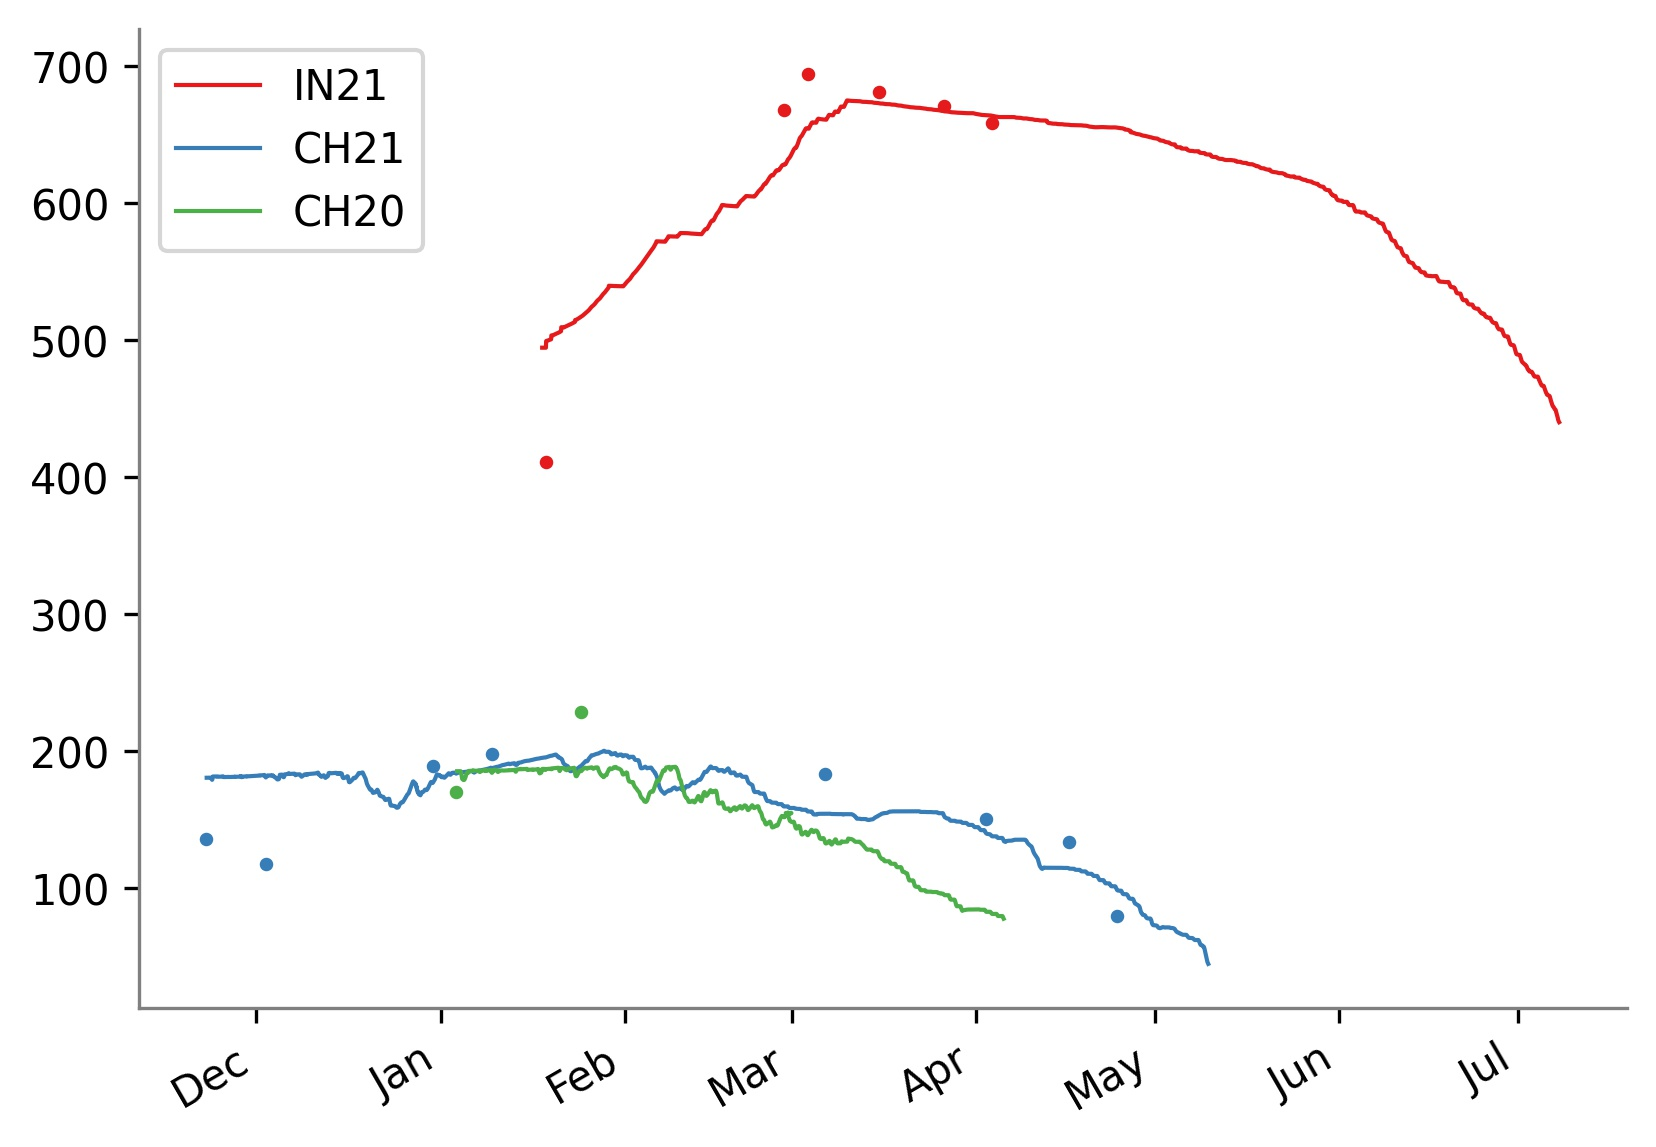
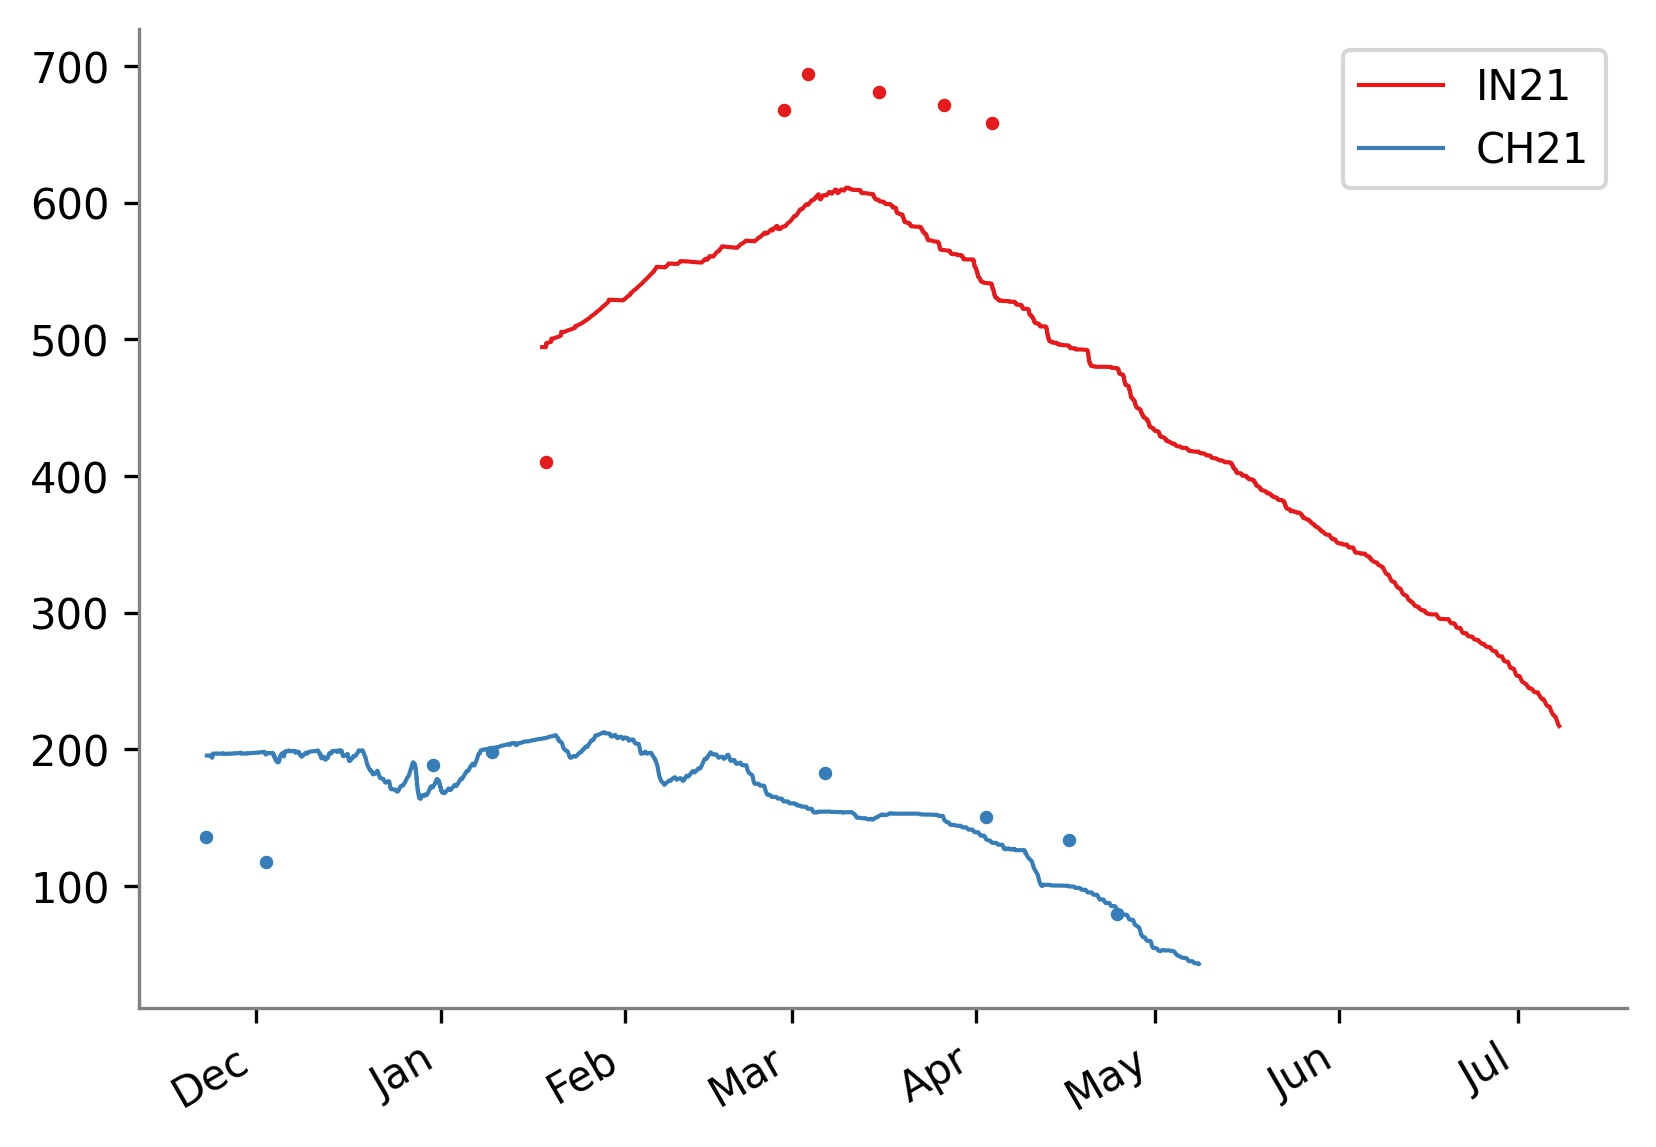
uq full prepare

diff --git a/src/utils/area_plot.py b/src/utils/area_plot.py
@@ -32,13 +32,11 @@ if __name__ == "__main__":
         logger=logger,
     )
 
-    locations = ['gangles21', 'guttannen21', 'guttannen20']
+    # locations = ['gangles21', 'guttannen21', 'guttannen20']
+    locations = ['gangles21', 'guttannen21']
 
     fig, ax = plt.subplots()
     custom_colors = sns.color_palette("Set1", len(locations))
-    custom_lines = [Line2D([0], [0], color=custom_colors[0], lw=4),
-                    Line2D([0], [0], color=custom_colors[1], lw=4),
-                    Line2D([0], [0], color=custom_colors[2], lw=4)]
 
     for i,location in enumerate(locations):
         SITE, FOLDER = config(location)
@@ -57,20 +55,20 @@ if __name__ == "__main__":
             parse_dates=["When"],
         )
 
-        a_pred = []
-        a_true = df_c.Area.values
-        for date in df_c.When.values:
-            if icestupa.df[icestupa.df.When == date].shape[0]:
-                a_pred.append(icestupa.df.loc[icestupa.df.When == date, "SA"].values[0])
-            else:
-                a_pred.append(np.nan)
-
-        res = list(map(truediv, a_true, a_pred))
-# printing original lists 
-        print ("The original list 1 is : " + str(a_true))
-        print ("The original list 2 is : " + str(a_pred))
-# printing result
-        print ("The division list is : " + str(res))
+#         a_pred = []
+#         a_true = df_c.Area.values
+#         for date in df_c.When.values:
+#             if icestupa.df[icestupa.df.When == date].shape[0]:
+#                 a_pred.append(icestupa.df.loc[icestupa.df.When == date, "SA"].values[0])
+#             else:
+#                 a_pred.append(np.nan)
+# 
+#         res = list(map(truediv, a_true, a_pred))
+# # printing original lists 
+#         print ("The original list 1 is : " + str(a_true))
+#         print ("The original list 2 is : " + str(a_pred))
+# # printing result
+#         print ("The division list is : " + str(res))
 
         if location == 'guttannen20':
             SITE["start_date"] +=pd.offsets.DateOffset(year=2023)
@@ -90,7 +88,7 @@ if __name__ == "__main__":
             freq="1H",
         )
 
-        df = icestupa.df[["When","SA"]]
+        df = icestupa.df[["When","SA", "ice", "fountain_froze", "melted"]]
         dfv = df_c[["When", "Area"]]
         if location == 'guttannen20':
             df['When'] = df['When'].mask(icestupa.df['When'].dt.year == 2019, 
@@ -137,6 +135,31 @@ if __name__ == "__main__":
         ax.xaxis.set_major_formatter(mdates.DateFormatter("%b"))
         ax.legend()
         fig.autofmt_xdate()
+
+#         df = df.set_index("When").resample("D").mean().reset_index()
+#         x = df.When[1:]
+#         # y1 = df.fountain_froze[1:] *60/1000 - df.melted[1:] *60/1000
+#         y1 = df.ice[1:].diff()/1000
+# 
+#         v = get_parameter_metadata(location)
+#         ax.plot(
+#             x,
+#             y1,
+#             linewidth=1,
+#             color=custom_colors[i],
+#             zorder=1,
+#             label = v['shortname']
+#         )
+#         # Hide the right and top spines
+#         ax.spines['right'].set_visible(False)
+#         ax.spines['top'].set_visible(False)
+#         ax.spines['left'].set_color('grey')
+#         ax.spines['bottom'].set_color('grey')
+#         # Only show ticks on the left and bottom spines
+#         ax.xaxis.set_major_locator(mdates.MonthLocator())
+#         ax.xaxis.set_major_formatter(mdates.DateFormatter("%b"))
+#         ax.legend()
+#         fig.autofmt_xdate()
 
     plt.savefig(
         "data/paper/area.jpg",

diff --git a/src/utils/uq_full.py b/src/utils/uq_full.py
@@ -44,7 +44,7 @@ if __name__ == "__main__":
 
         # params = ['IE', 'A_I', 'A_S','A_DECAY', 'T_PPT', 'Z']
         # params = ['IE', 'A_I', 'A_S','A_DECAY', 'T_PPT', 'Z', 'DX', 'SA_corr']
-        params = ['IE', 'A_I', 'A_S','A_DECAY', 'T_PPT', 'Z']
+        params = ['IE', 'A_I', 'A_S','A_DECAY', 'T_PPT']
 
         parameters = un.Parameters(setup_params_dist(params))
 

diff --git a/src/utils/corr_matrix.py b/src/utils/corr_matrix.py
@@ -25,7 +25,7 @@ from src.models.icestupaClass import Icestupa
 
 if __name__ == "__main__":
     # locations = ["gangles21", "guttannen21"]
-    locations = [ "guttannen21"]
+    locations = [ "gangles21"]
 
     fig, ax = plt.subplots()
     for ctr, location in enumerate(locations):
